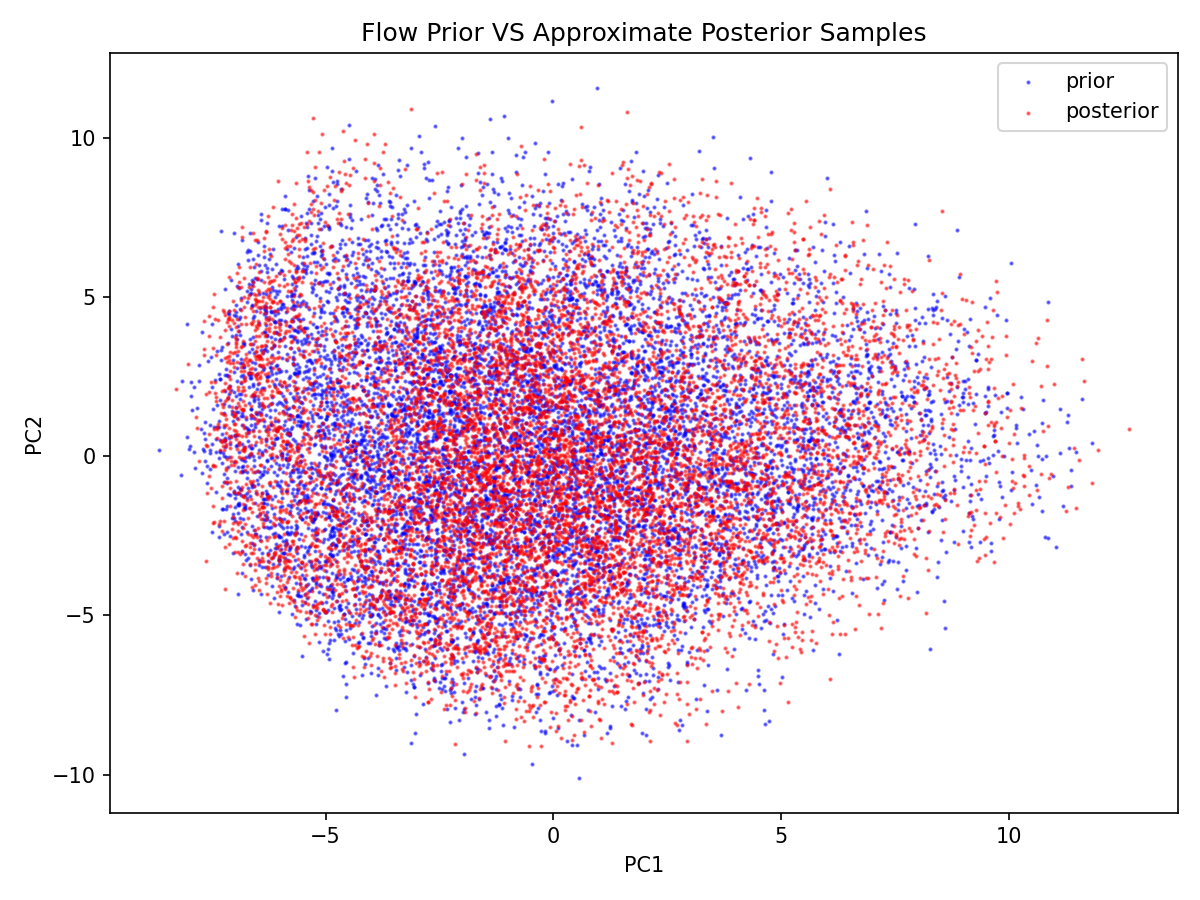
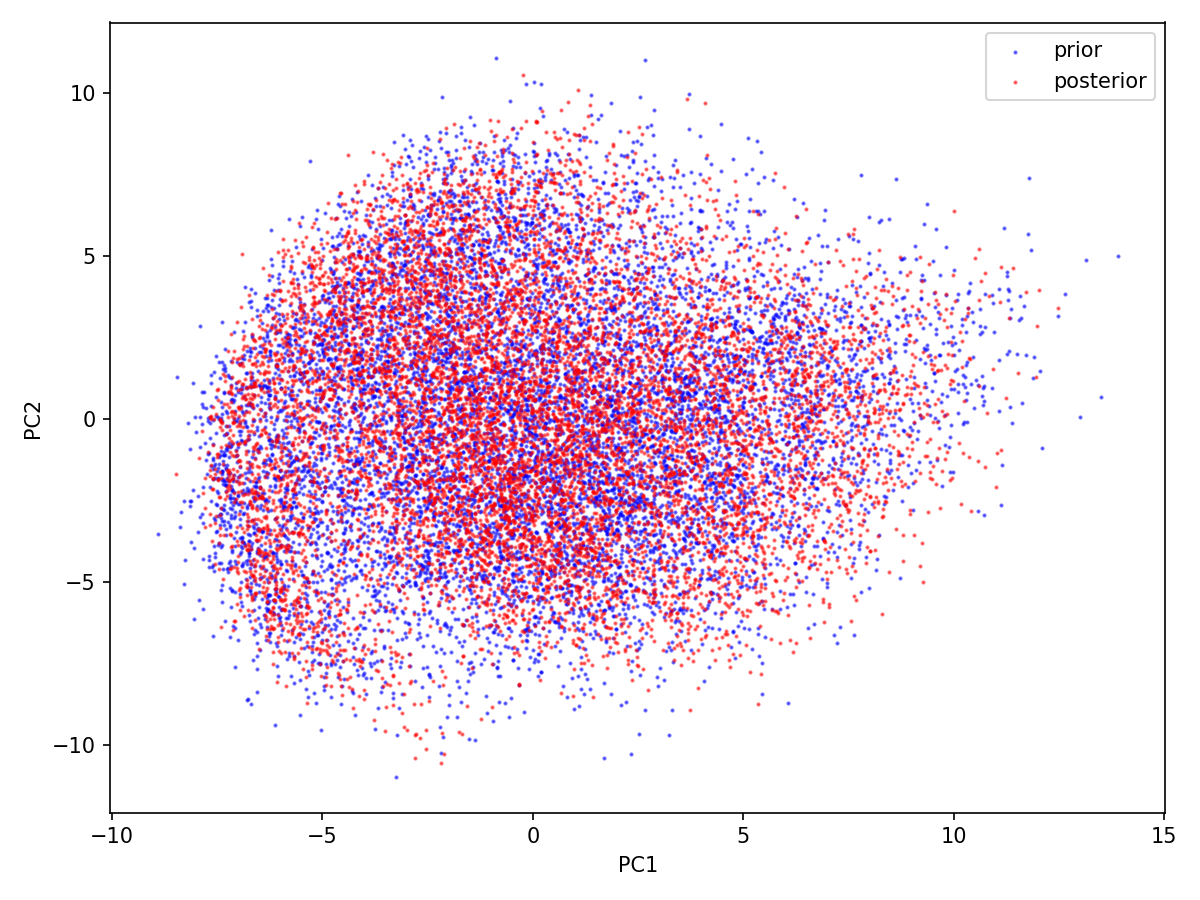
Plot corrections and mean + std for avg ELBO

diff --git a/Mini Project 1/Part A/statistics.py b/Mini Project 1/Part A/statistics.py
@@ -1,0 +1,16 @@
+import numpy as np
+import matplotlib as mpl
+
+gp_elbo = np.array([-89.7416305419922, -91.58768662109375, -89.50657092285157, -90.94428303222656, -89.42571530761718, -89.98001264648437])
+
+print(f"Gaussian Prior 6 runs: Mean Avg ELBO: {gp_elbo.mean():.2f}, Std of Avg ELBO {gp_elbo.std():.2f}")
+
+mob_elbo = np.array([-87.40810258789062, -88.46548905029297, -86.1971771118164, -86.84063795166016, -89.45142404785156, -89.31198603515625])
+
+print(f"Mixture of Gaussian Prior 6 runs: Mean Avg ELBO: {mob_elbo.mean():.2f}, Std of Avg ELBO {mob_elbo.std():.2f}")
+
+flow_elbo = np.array([-88.2771490966797, -86.70559956054687, -88.57668880615235, -88.16901608886718, -87.33453779296875, -88.0205509765625])
+
+print(f"Flow-based prior 6 runs: Mean Avg ELBO: {flow_elbo.mean():.2f}, Std of Avg ELBO {flow_elbo.std():.2f}")
+
+

diff --git a/Mini Project 1/Part A/vae.py b/Mini Project 1/Part A/vae.py
@@ -422,7 +422,7 @@ if __name__ == "__main__":
         scatter = plt.scatter(all_z[:, 0], all_z[:, 1], label="posterior", c="red", s=1, alpha=0.5)
         plt.xlabel('z1' if M <= 2 else 'PC1')
         plt.ylabel('z2' if M <= 2 else 'PC2')
-        plt.title(f'{str(args.prior).capitalize()} Prior VS Approximate Posterior Samples')
+        #plt.title(f'{str(args.prior).capitalize()} Prior VS Approximate Posterior Samples')
         plt.legend()
         plt.tight_layout()
         os.makedirs(os.path.dirname(comparison_path), exist_ok=True)
